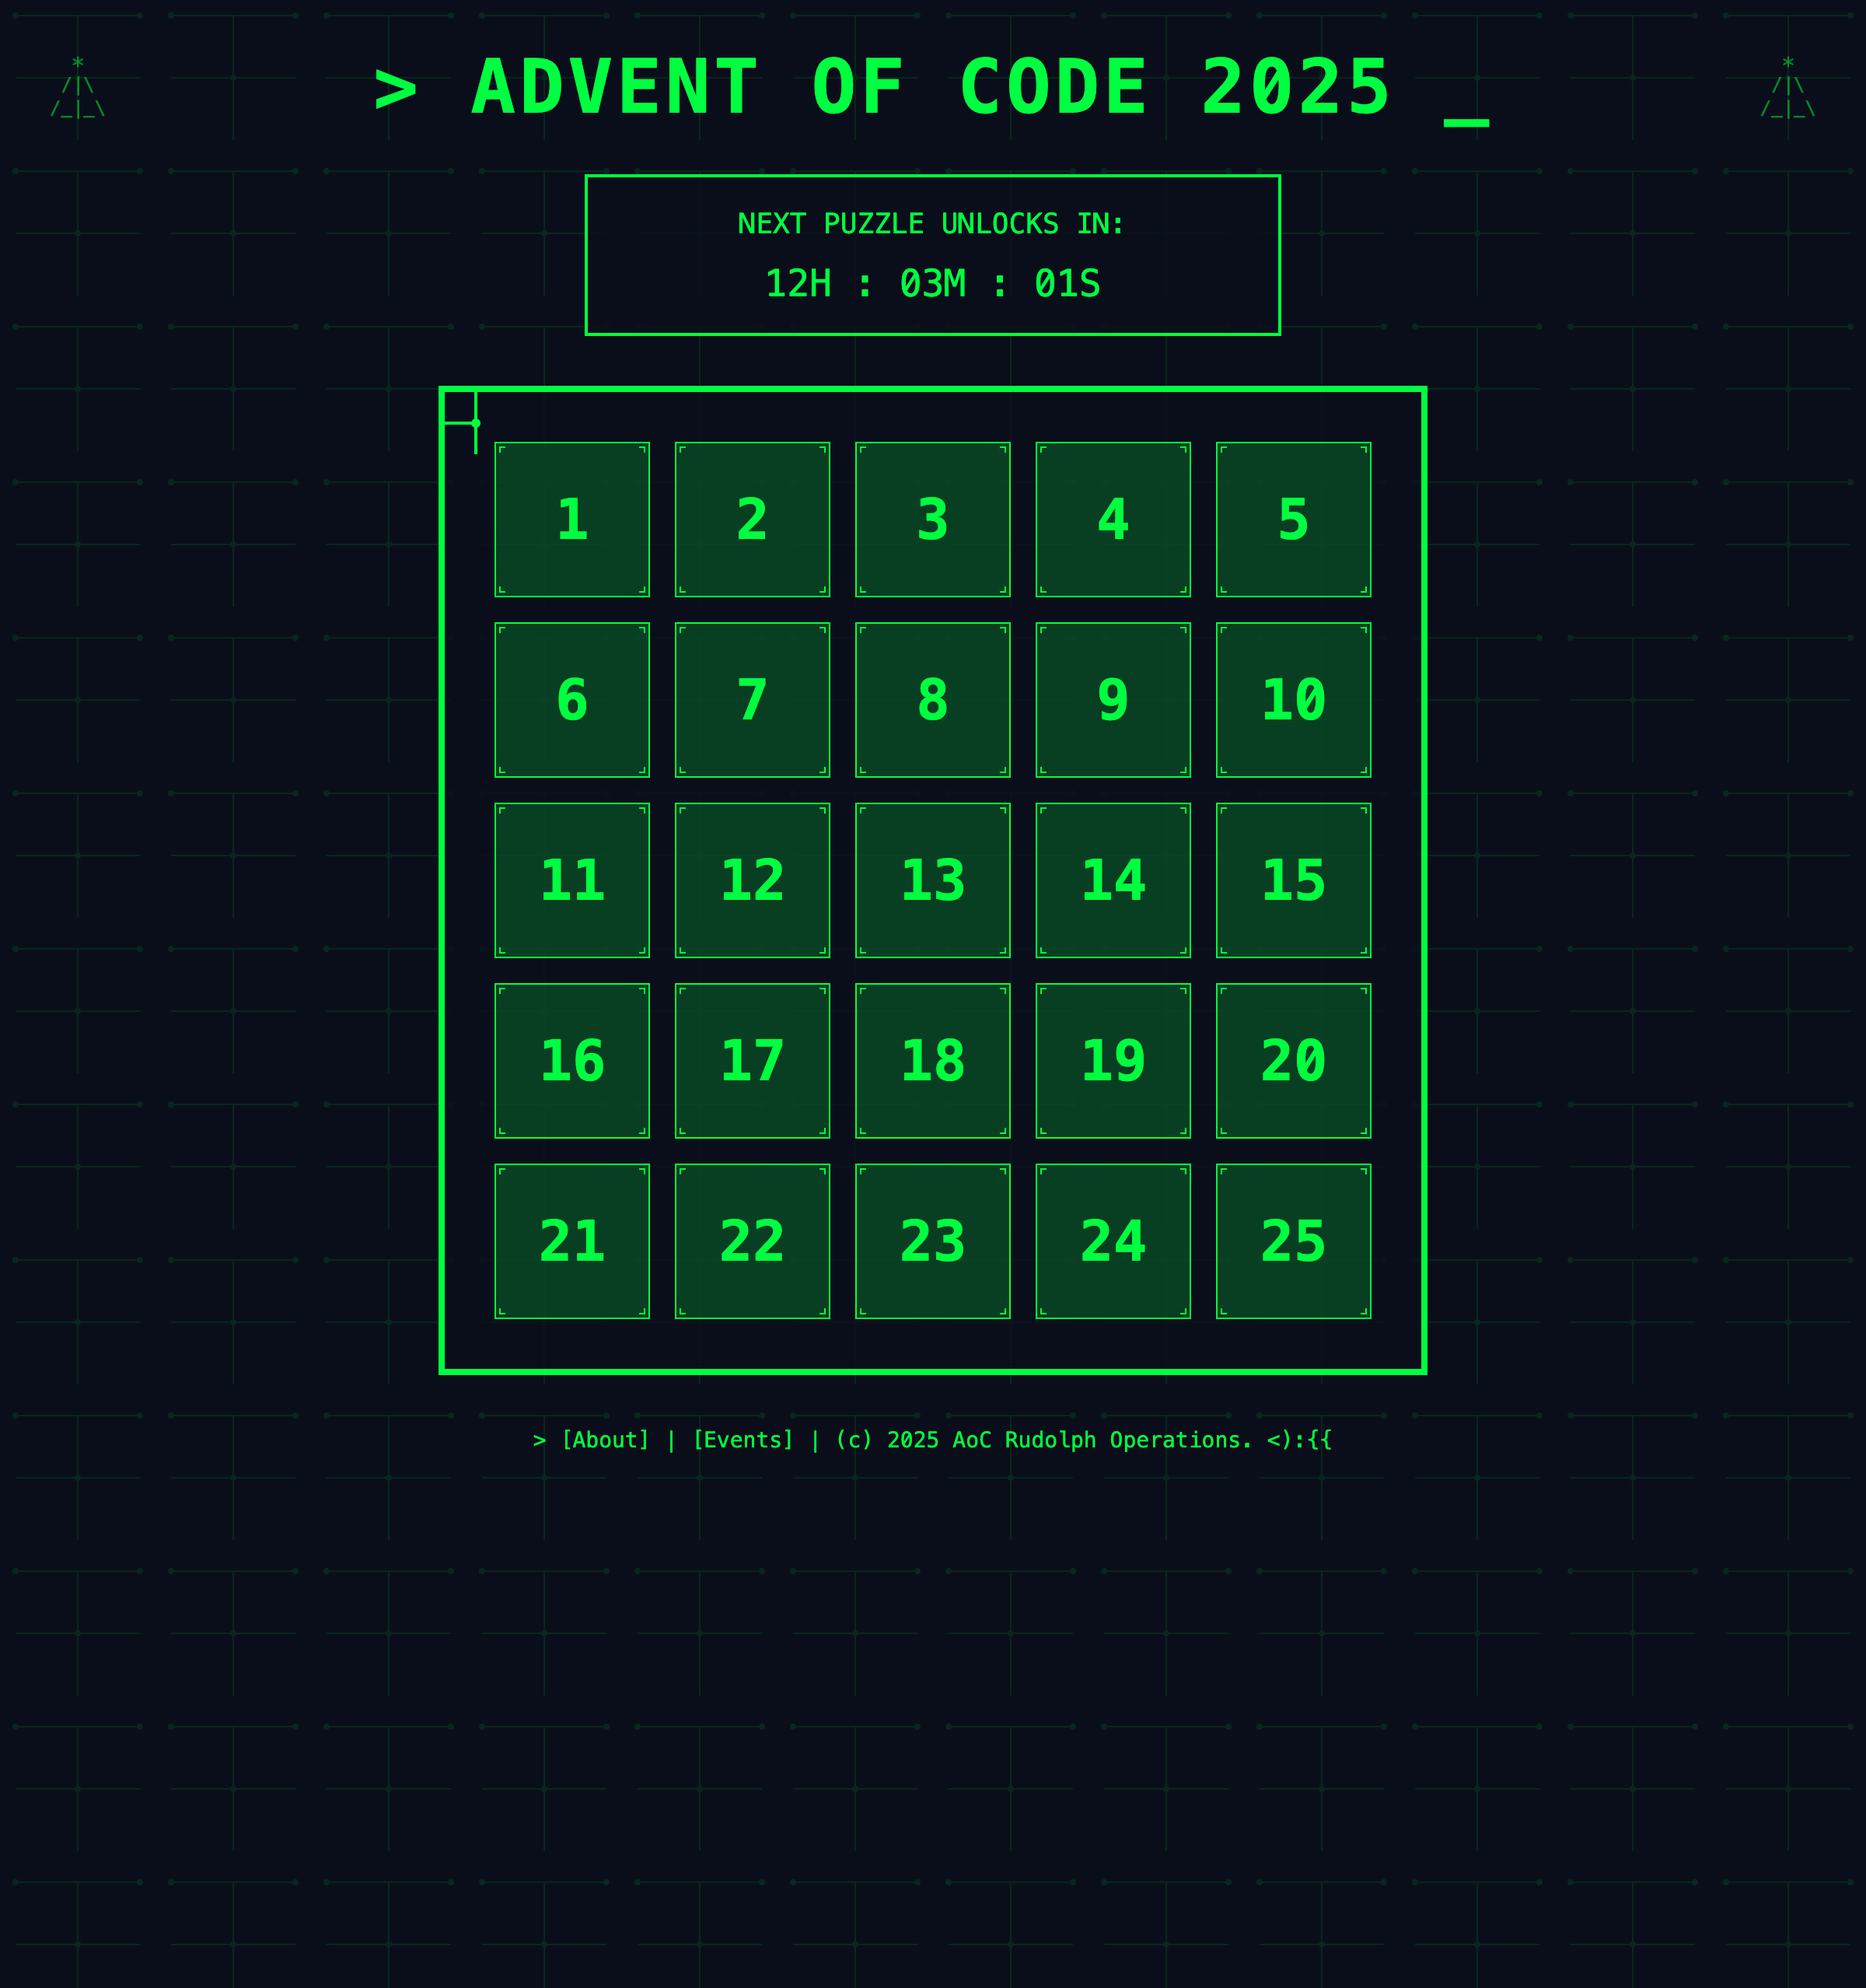
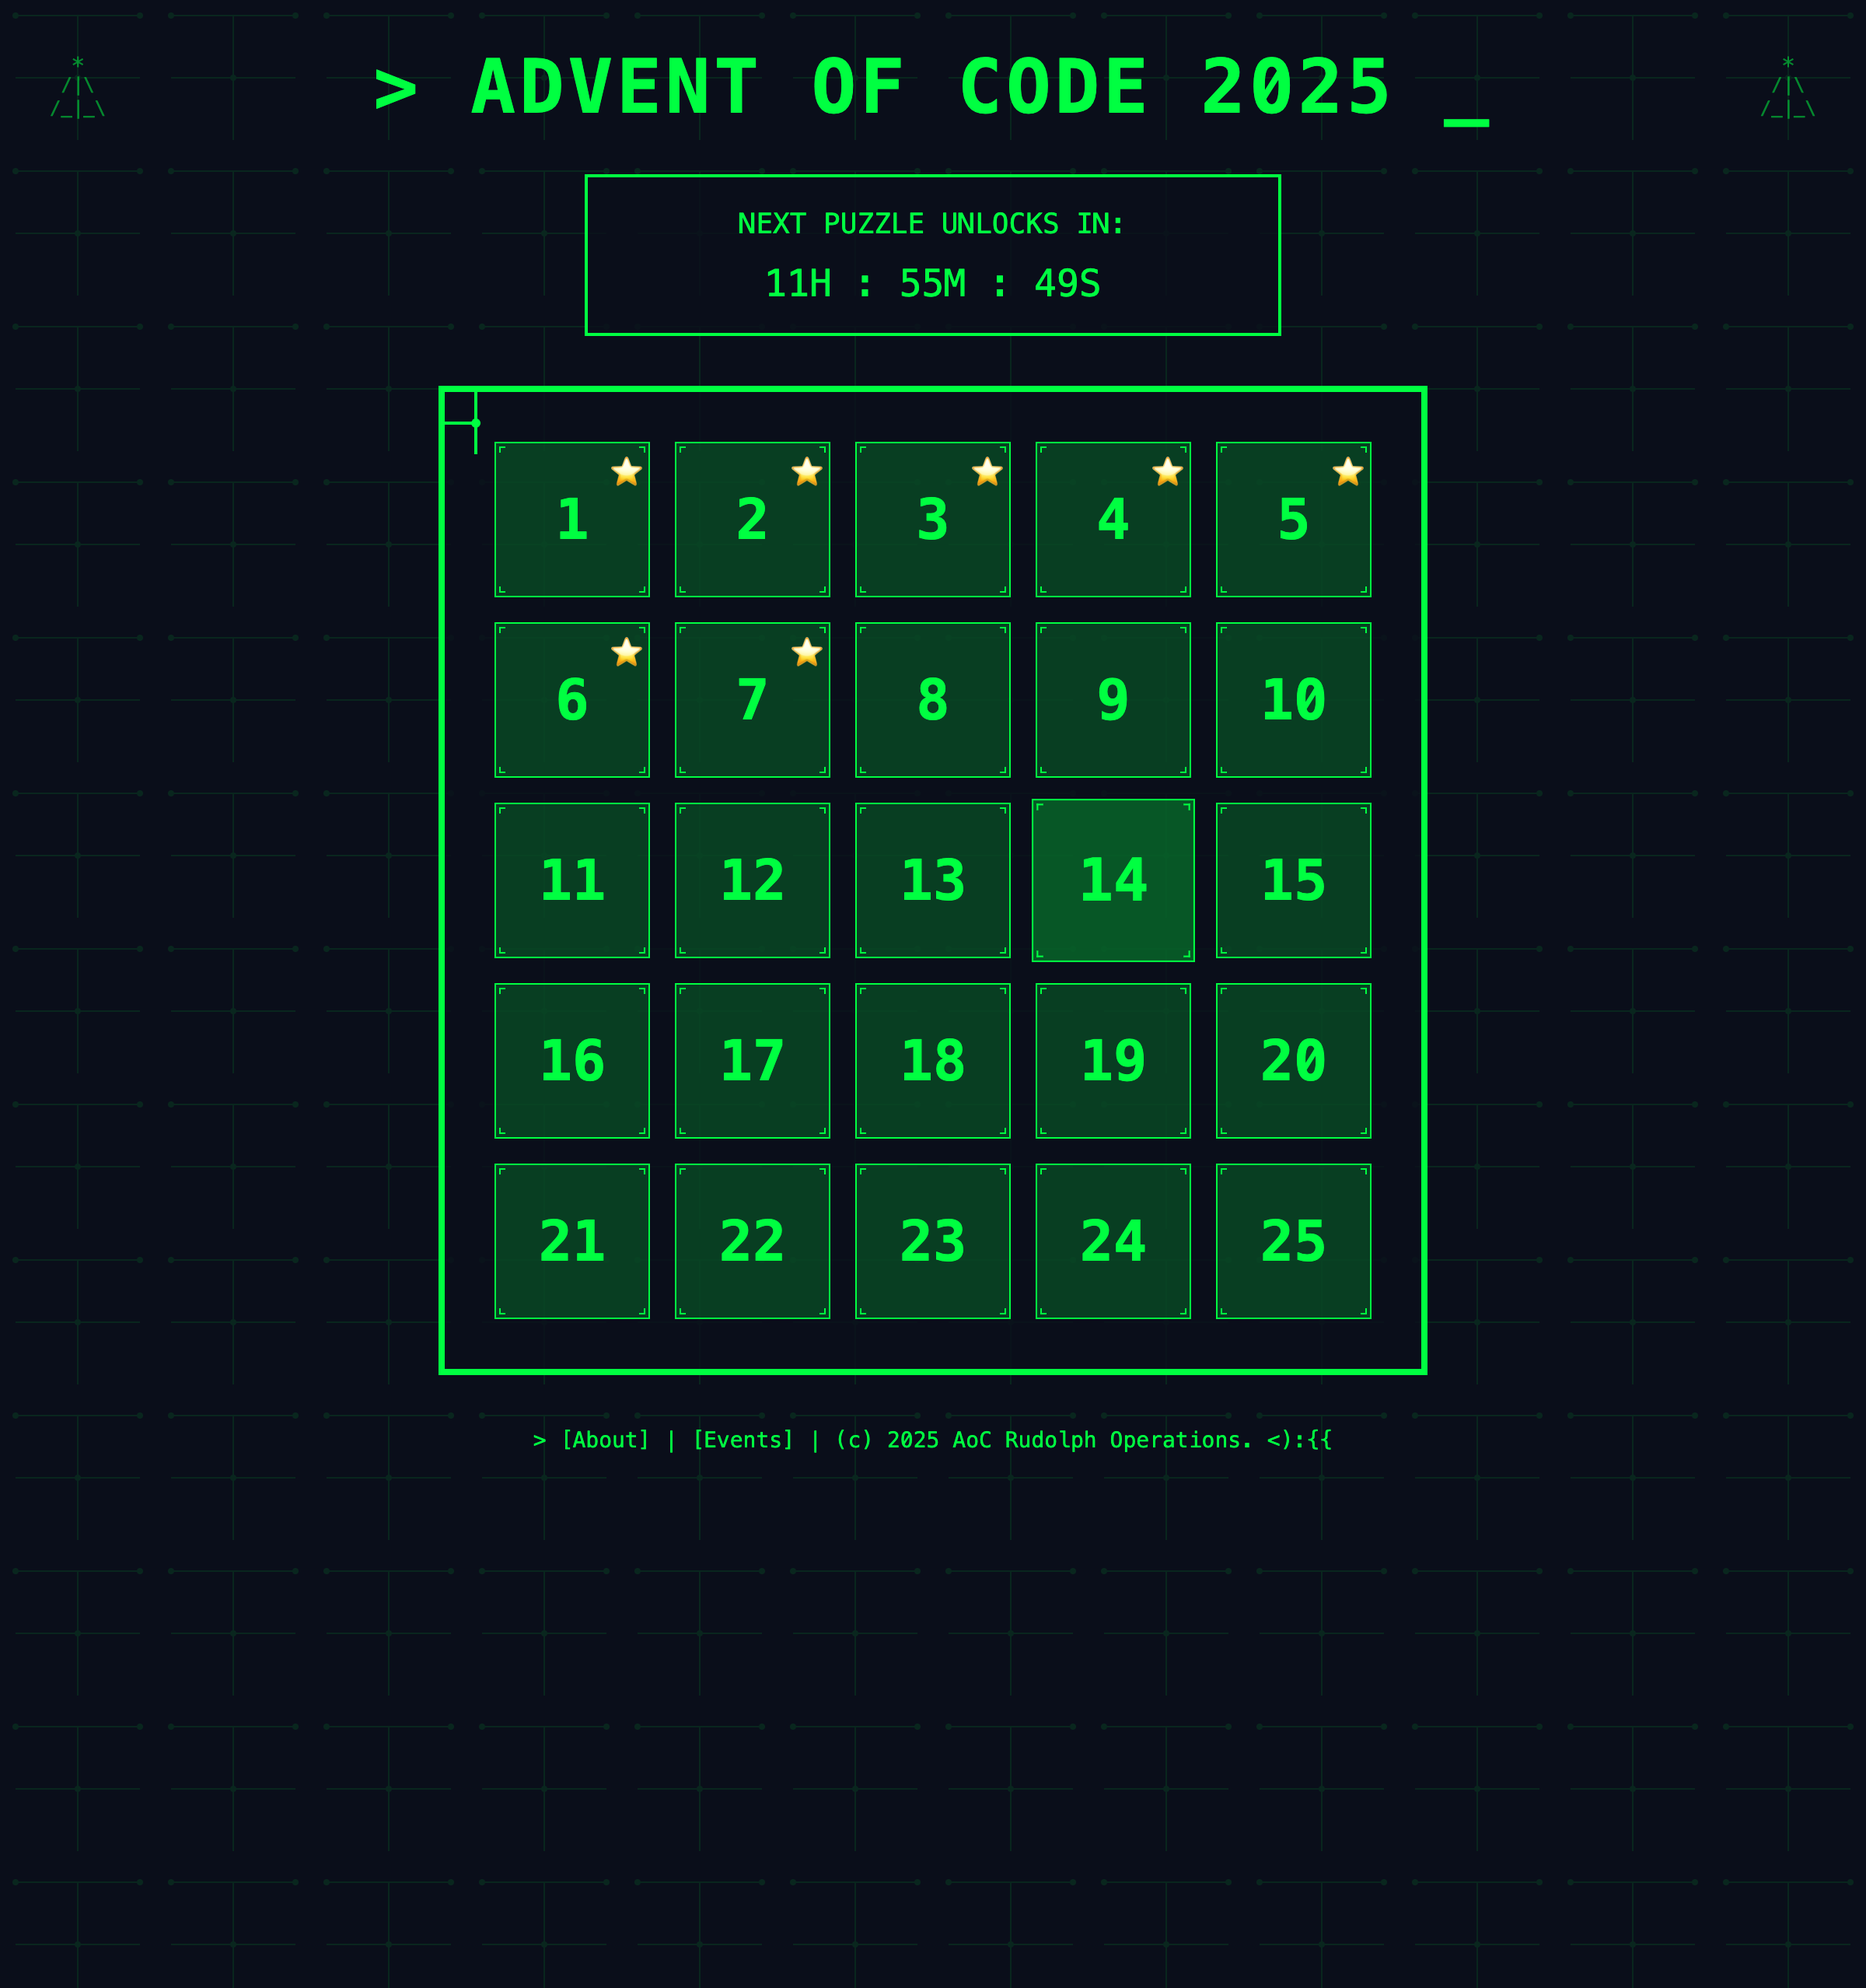
Add gold star emoji to completed days (1-7) on homepage

diff --git a/src/components/DayButton.vue b/src/components/DayButton.vue
@@ -3,6 +3,11 @@
     :to="`/day${day}`"
     class="relative w-[100px] h-[100px] border border-[#00ff41] bg-[#00ff41]/20 hover:bg-[#00ff41]/30 hover:scale-105 transition-all duration-200"
   >
+    <!-- Gold star for completed days -->
+    <div v-if="completed" class="absolute top-1 right-1 text-xl z-10">
+      ⭐
+    </div>
+
     <!-- Day number -->
     <div class="absolute inset-0 flex items-center justify-center">
       <div class="text-4xl font-bold font-mono text-[#00ff41]">
@@ -21,5 +26,6 @@
 <script setup lang="ts">
 defineProps<{
   day: number
+  completed?: boolean
 }>()
 </script>

diff --git a/src/views/Home.vue b/src/views/Home.vue
@@ -53,6 +53,7 @@
             v-for="day in 25"
             :key="day"
             :day="day"
+            :completed="day <= 7"
           />
         </div>
         </div>
